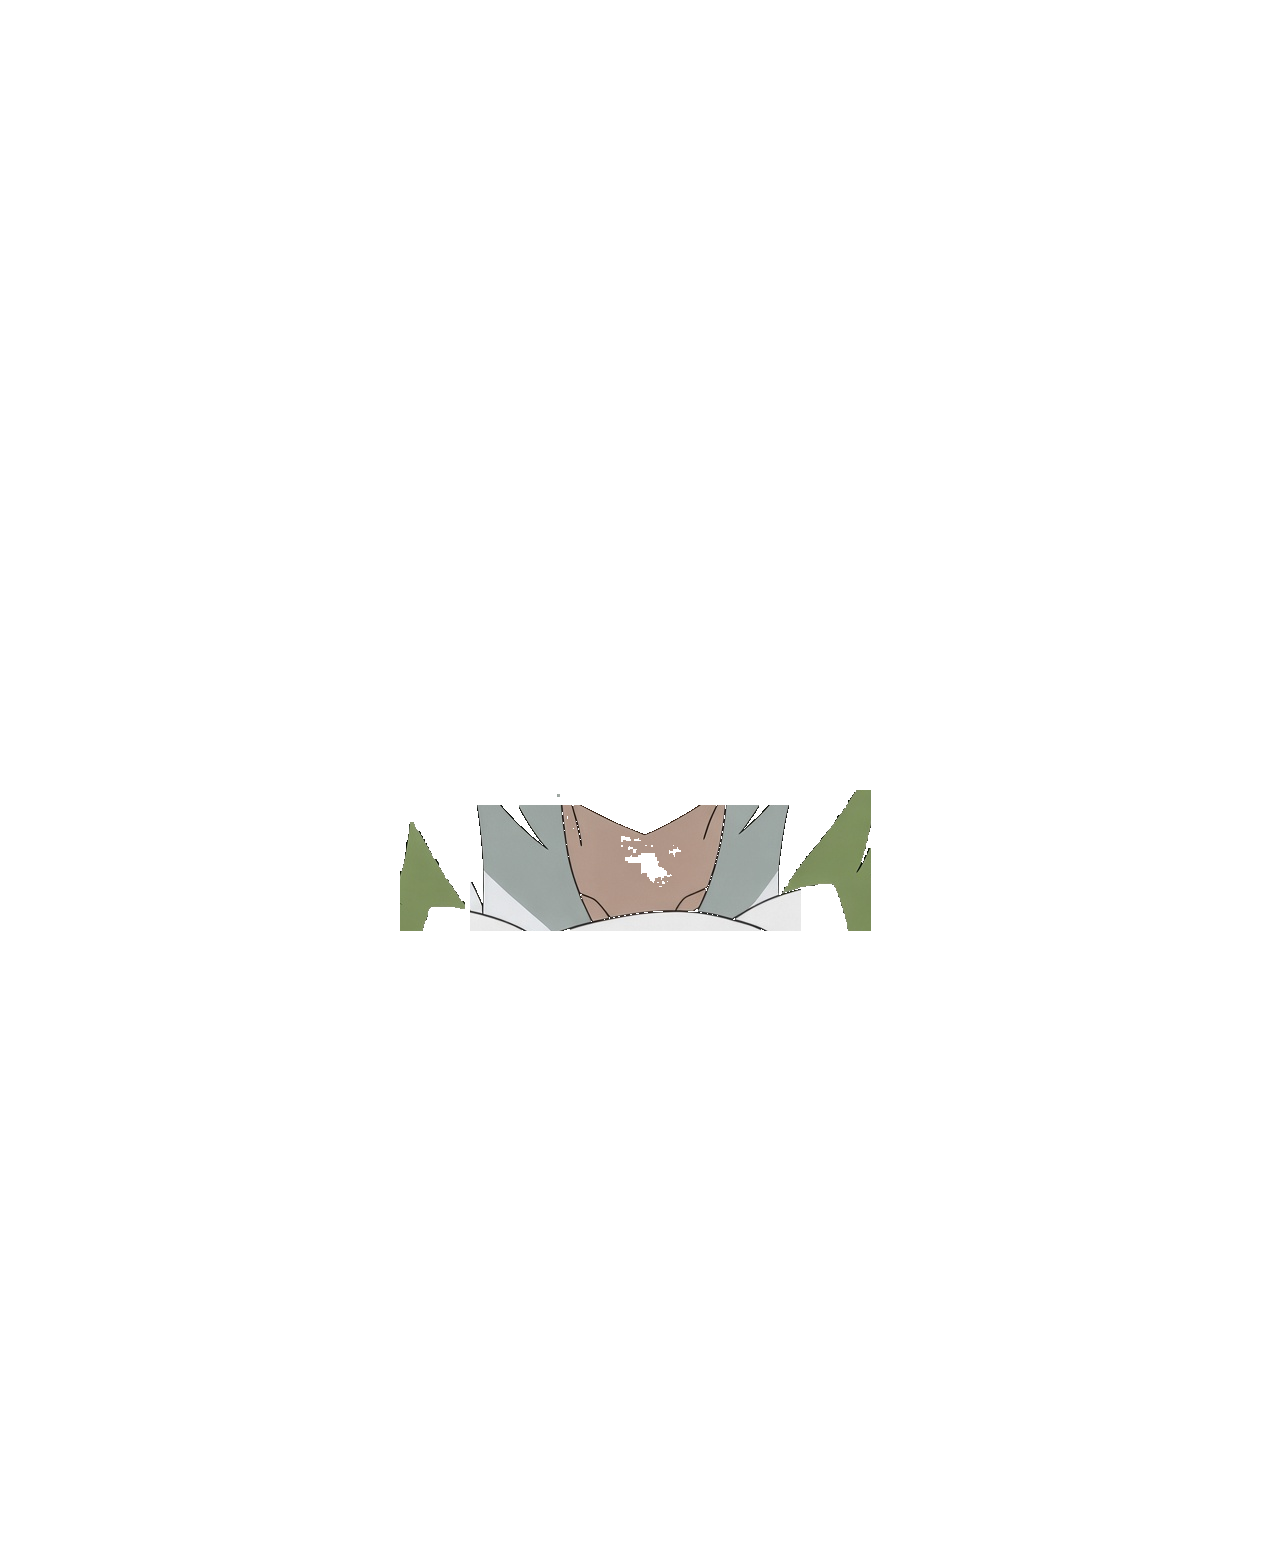
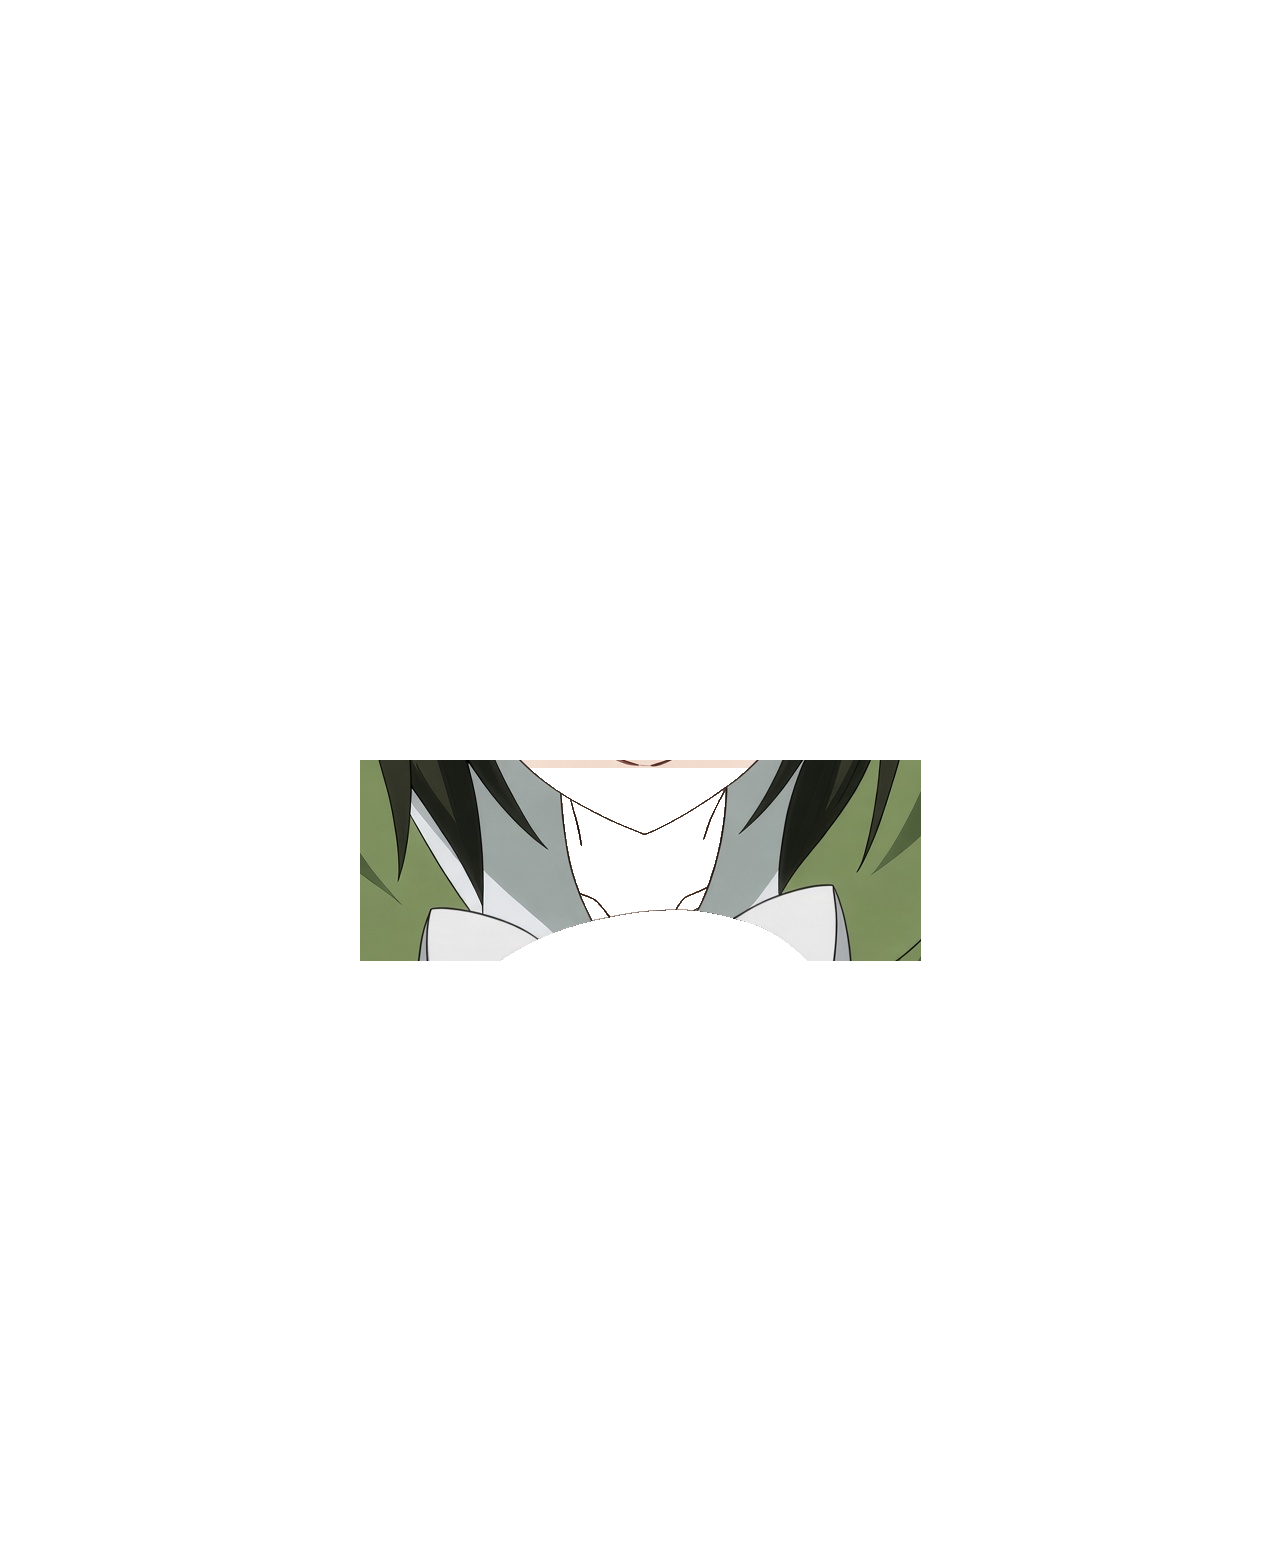
Extend Maho's neck and collar, and turn bangs under the side hair.

Changed region(s): [[0.2777, 0.4688, 0.7405, 0.625], [0.4011, 0.5938, 0.432, 0.625]]

diff --git a/frontend/tests/maho.test.ts b/frontend/tests/maho.test.ts
@@ -10,13 +10,15 @@ const layers = JSON.parse(
 ) as LayerSpec;
 assert.deepEqual(
   layers.layers.map((layer) => layer.id),
-  ["hair", "body", "neck", "collar", "face", "bangs"],
+  ["hair", "body", "neck", "collar", "cat", "face", "bangs", "side-bangs"],
 );
 assert.equal(layers.layers.find((layer) => layer.id === "face")?.rotate, true);
+assert.equal(layers.layers.find((layer) => layer.id === "bangs")?.rotate, true);
 assert.ok(layers.layers.find((layer) => layer.id === "hair")?.rotate !== true);
 assert.ok(layers.layers.find((layer) => layer.id === "neck")?.rotate !== true);
 assert.ok(layers.layers.find((layer) => layer.id === "collar")?.rotate !== true);
-assert.ok(layers.layers.find((layer) => layer.id === "bangs")?.rotate !== true);
+assert.ok(layers.layers.find((layer) => layer.id === "side-bangs")?.rotate !== true);
+assert.equal(layers.layers.find((layer) => layer.id === "cat")?.bob, true);
 
 function pngSize(bytes: Uint8Array): { width: number; height: number } {
   const view = new DataView(bytes.buffer, bytes.byteOffset, bytes.byteLength);
@@ -86,9 +88,11 @@ for (const name of [
   "layers/face-angry.png",
   "layers/face-eyes-closed.png",
   "layers/bangs.png",
+  "layers/side-bangs.png",
   "layers/hair.png",
   "layers/neck.png",
   "layers/collar.png",
+  "layers/cat.png",
   "layers/body.png",
 ] as const) {
   const bytes = await readFile(new URL(`../public/maho/${name}`, import.meta.url));
@@ -127,6 +131,9 @@ assert.match(playerSrc, /const zoom = 0\.9/);
 assert.match(playerSrc, /LINEAR_MIPMAP_LINEAR/);
 assert.match(playerSrc, /generateMipmap/);
 assert.doesNotMatch(playerSrc, /discard/);
+const layerPlayerSrc = await readFile(new URL("../src/maho/layerPlayer.ts", import.meta.url), "utf8");
+assert.match(layerPlayerSrc, /TEXTURE_MIN_FILTER,\s*gl\.LINEAR\)/);
+assert.doesNotMatch(layerPlayerSrc, /generateMipmap/);
 const puppetSrc = await readFile(new URL("../src/components/MahoPuppet.tsx", import.meta.url), "utf8");
 assert.match(puppetSrc, /webgl2/);
 assert.match(puppetSrc, /MahoLayerPlayer/);

diff --git a/frontend/src/maho/layerPlayer.ts b/frontend/src/maho/layerPlayer.ts
@@ -68,10 +68,9 @@ function loadTexture(gl: WebGL2RenderingContext, url: string): Promise<WebGLText
       gl.pixelStorei(gl.UNPACK_PREMULTIPLY_ALPHA_WEBGL, 1);
       gl.texParameteri(gl.TEXTURE_2D, gl.TEXTURE_WRAP_S, gl.CLAMP_TO_EDGE);
       gl.texParameteri(gl.TEXTURE_2D, gl.TEXTURE_WRAP_T, gl.CLAMP_TO_EDGE);
-      gl.texParameteri(gl.TEXTURE_2D, gl.TEXTURE_MIN_FILTER, gl.LINEAR_MIPMAP_LINEAR);
+      gl.texParameteri(gl.TEXTURE_2D, gl.TEXTURE_MIN_FILTER, gl.LINEAR);
       gl.texParameteri(gl.TEXTURE_2D, gl.TEXTURE_MAG_FILTER, gl.LINEAR);
       gl.texImage2D(gl.TEXTURE_2D, 0, gl.RGBA, gl.RGBA, gl.UNSIGNED_BYTE, image);
-      gl.generateMipmap(gl.TEXTURE_2D);
       resolve(texture);
     };
     image.onerror = () => reject(new Error(`Failed to load ${url}`));

diff --git a/scripts/extract_maho_layers.py b/scripts/extract_maho_layers.py
@@ -1,0 +1,197 @@
+#!/usr/bin/env python3
+"""Rebuild Maho neck, collar, bangs, and side-bangs from maho.png."""
+
+from __future__ import annotations
+
+from collections import deque
+from pathlib import Path
+
+import numpy as np
+from PIL import Image, ImageFilter
+
+ROOT = Path(__file__).resolve().parents[1]
+MAHO = ROOT / "frontend" / "public" / "maho"
+SRC_PATH = MAHO / "maho.png"
+LAYER_DIR = MAHO / "layers"
+
+W = 1264
+H = 1568
+
+
+def bbox(mask: np.ndarray) -> tuple[int, int, int, int, int] | None:
+    ys, xs = np.where(mask)
+    if len(xs) == 0:
+        return None
+    return int(xs.min()), int(ys.min()), int(xs.max()), int(ys.max()), int(len(xs))
+
+
+def dilate(mask: np.ndarray, radius: int) -> np.ndarray:
+    if radius <= 0:
+        return mask
+    im = Image.fromarray(mask.astype(np.uint8) * 255)
+    return np.array(im.filter(ImageFilter.MaxFilter(radius * 2 + 1))) > 127
+
+
+def close_mask(mask: np.ndarray, radius: int) -> np.ndarray:
+    im = Image.fromarray(mask.astype(np.uint8) * 255)
+    im = im.filter(ImageFilter.MaxFilter(radius * 2 + 1))
+    im = im.filter(ImageFilter.MinFilter(radius * 2 + 1))
+    return np.array(im) > 127
+
+
+def flood(h: int, w: int, seed: tuple[int, int], pred) -> np.ndarray:
+    seen = np.zeros((h, w), dtype=bool)
+    sx, sy = seed
+    if not (0 <= sx < w and 0 <= sy < h) or not pred(sy, sx):
+        return seen
+    q: deque[tuple[int, int]] = deque([(sx, sy)])
+    seen[sy, sx] = True
+    while q:
+        x, y = q.popleft()
+        for nx, ny in ((x + 1, y), (x - 1, y), (x, y + 1), (x, y - 1)):
+            if 0 <= nx < w and 0 <= ny < h and not seen[ny, nx] and pred(ny, nx):
+                seen[ny, nx] = True
+                q.append((nx, ny))
+    return seen
+
+
+def save_rgba(path: Path, arr: np.ndarray) -> None:
+    Image.fromarray(arr).save(path, optimize=True)
+
+
+def copy_src(src: np.ndarray, mask: np.ndarray) -> np.ndarray:
+    out = np.zeros_like(src)
+    out[mask] = src[mask]
+    return out
+
+
+def punch_dark(arr: np.ndarray, mask: np.ndarray) -> np.ndarray:
+    out = arr.copy()
+    lum = out[:, :, 0].astype(np.int16) + out[:, :, 1].astype(np.int16) + out[:, :, 2].astype(np.int16)
+    drop = mask & (out[:, :, 3] > 8) & (lum < 280)
+    out[drop] = (0, 0, 0, 0)
+    return out
+
+
+def main() -> None:
+    src = np.array(Image.open(SRC_PATH).convert("RGBA"))
+    assert src.shape[0] == H and src.shape[1] == W
+    body = np.array(Image.open(LAYER_DIR / "body.png").convert("RGBA"))
+    face = np.array(Image.open(LAYER_DIR / "face.png").convert("RGBA"))
+    face_angry = np.array(Image.open(LAYER_DIR / "face-angry.png").convert("RGBA"))
+    face_closed = np.array(Image.open(LAYER_DIR / "face-eyes-closed.png").convert("RGBA"))
+
+    r = src[:, :, 0].astype(np.int16)
+    g = src[:, :, 1].astype(np.int16)
+    b = src[:, :, 2].astype(np.int16)
+    a = src[:, :, 3]
+    opaque = a > 8
+    lum = r + g + b
+    dark = opaque & (lum < 280)
+    skin = (
+        opaque
+        & (r > 130)
+        & (g > 100)
+        & (b > 90)
+        & (r > g - 5)
+        & (r - b > 15)
+        & (lum > 350)
+    )
+    hoodie = opaque & (g > r + 12) & (g > 85) & (g > b)
+    gray = opaque & (np.abs(r - g) < 18) & (np.abs(g - b) < 18) & (r > 140) & (r < 235)
+    white = opaque & (r > 210) & (g > 210) & (b > 210)
+    pink = opaque & (r > 180) & (g > 90) & (b > 90) & (r > g + 15)
+
+    yy, xx = np.ogrid[:H, :W]
+
+    def cat_pred(y: int, x: int) -> bool:
+        if y < 905 or y > 1480 or x < 400 or x > 870:
+            return False
+        if hoodie[y, x] or skin[y, x]:
+            return False
+        return bool(white[y, x] or pink[y, x] or lum[y, x] > 520)
+
+    cat_head = flood(H, W, (632, 1040), cat_pred)
+    left_ear = ((xx - 500) / 58) ** 2 + ((yy - 922) / 48) ** 2 <= 1
+    right_ear = ((xx - 790) / 58) ** 2 + ((yy - 922) / 48) ** 2 <= 1
+    cat = cat_head | ((left_ear | right_ear) & (white | (lum > 500)) & (yy >= 860) & ~hoodie & ~skin)
+    cat = dilate(cat, 3) & ~hoodie
+    cat_head = dilate(cat_head, 2)
+    print("cat", bbox(cat), "cat_head", bbox(cat_head))
+
+    neck_core = skin & (yy >= 768) & (yy <= 922) & (xx >= 500) & (xx <= 770) & ~cat
+    neck_mask = dilate(neck_core, 6) & ~hoodie & ~cat
+    neck_out = np.zeros_like(src)
+    # Original skin first, then dilate fill from the nearest core pixel on that row.
+    neck_out[neck_core] = src[neck_core]
+    for y in range(H):
+        xs = np.where(neck_core[y])[0]
+        extra = np.where(neck_mask[y] & ~neck_core[y])[0]
+        if len(xs) == 0 or len(extra) == 0:
+            continue
+        left, right = int(xs.min()), int(xs.max())
+        for x in extra:
+            neck_out[y, x] = src[y, left] if x < left else src[y, right]
+    print("neck", bbox(neck_mask))
+
+    in_collar = (yy >= 760) & (yy <= 960) & (xx >= 360) & (xx <= 920)
+    lining = in_collar & (gray | (white & ~cat_head) | hoodie) & ~cat_head
+    body_hole = in_collar & (body[:, :, 3] < 8) & opaque & ~cat_head
+    near_lining = dilate(lining | body_hole, 3)
+    outline = in_collar & dark & near_lining & ~cat_head
+    collar_mask = close_mask(lining | body_hole | outline, 2)
+    collar_mask = dilate(collar_mask, 2) & in_collar & ~cat_head & ~neck_core
+    print("collar", bbox(collar_mask))
+
+    # Hanging fringe only. Roots stay in the static crown / side-bangs so a
+    # head turn does not open the hair hole above the forehead.
+    center_box = (xx >= 515) & (xx <= 755) & (yy >= 468) & (yy <= 528)
+    bangs_mask = dark & center_box & ~skin
+
+    dist = ((xx - 650) / 205) ** 2 + ((yy - 640) / 220) ** 2
+    annulus = dark & (dist > 0.62) & (dist < 1.78) & (yy >= 380) & (yy <= 875)
+    crown = dark & (yy >= 350) & (yy <= 475) & (xx >= 420) & (xx <= 860)
+    frame = dark & (
+        ((yy >= 400) & (yy <= 545) & (xx >= 420) & (xx <= 535))
+        | ((yy >= 400) & (yy <= 545) & (xx >= 735) & (xx <= 860))
+    )
+    side_mask = (annulus | crown | frame) & ~skin & ~cat
+    bangs_mask &= ~side_mask
+    print("bangs", bbox(bangs_mask))
+    print("side-bangs", bbox(side_mask))
+
+    save_rgba(LAYER_DIR / "neck.png", neck_out)
+    save_rgba(LAYER_DIR / "collar.png", copy_src(src, collar_mask))
+    save_rgba(LAYER_DIR / "bangs.png", copy_src(src, bangs_mask))
+    save_rgba(LAYER_DIR / "side-bangs.png", copy_src(src, side_mask))
+    save_rgba(LAYER_DIR / "cat.png", copy_src(src, cat))
+    save_rgba(LAYER_DIR / "face.png", punch_dark(face, side_mask))
+    save_rgba(LAYER_DIR / "face-angry.png", punch_dark(face_angry, side_mask))
+    save_rgba(LAYER_DIR / "face-eyes-closed.png", punch_dark(face_closed, side_mask))
+
+    for name in (
+        "neck.png",
+        "collar.png",
+        "bangs.png",
+        "side-bangs.png",
+        "cat.png",
+        "face.png",
+        "face-angry.png",
+        "face-eyes-closed.png",
+    ):
+        im = np.array(Image.open(LAYER_DIR / name).convert("RGBA"))
+        zero_rgb = int(((im[:, :, 3] == 0) & (im[:, :, :3].sum(axis=2) > 0)).sum())
+        print(name, bbox(im[:, :, 3] > 8), "zeroRGB", zero_rgb)
+        assert im.shape[0] == H and im.shape[1] == W
+        assert zero_rgb == 0
+
+    neck_n = int((np.array(Image.open(LAYER_DIR / "neck.png"))[:, :, 3] > 8).sum())
+    collar_n = int((np.array(Image.open(LAYER_DIR / "collar.png"))[:, :, 3] > 8).sum())
+    assert neck_n >= 15000, neck_n
+    assert collar_n >= 30000, collar_n
+    neck_bb = bbox(np.array(Image.open(LAYER_DIR / "neck.png"))[:, :, 3] > 8)
+    assert neck_bb is not None and neck_bb[3] >= 890, neck_bb
+
+
+if __name__ == "__main__":
+    main()

diff --git a/frontend/tests/layer_extent.py b/frontend/tests/layer_extent.py
@@ -1,0 +1,54 @@
+#!/usr/bin/env python3
+"""Opaque-count and bbox gates for Maho layer PNGs."""
+
+from pathlib import Path
+
+from PIL import Image
+
+ROOT = Path(__file__).resolve().parents[1] / "public" / "maho" / "layers"
+
+
+def bbox(im: Image.Image) -> tuple[int, int, int, int, int]:
+    alpha = im.split()[-1]
+    box = alpha.getbbox()
+    if box is None:
+        raise SystemExit("layer PNG is empty")
+    count = sum(1 for p in alpha.getdata() if p > 8)
+    return box[0], box[1], box[2], box[3], count
+
+
+def main() -> None:
+    neck = Image.open(ROOT / "neck.png").convert("RGBA")
+    collar = Image.open(ROOT / "collar.png").convert("RGBA")
+    bangs = Image.open(ROOT / "bangs.png").convert("RGBA")
+    side = Image.open(ROOT / "side-bangs.png").convert("RGBA")
+    cat = Image.open(ROOT / "cat.png").convert("RGBA")
+    for name, im in (
+        ("neck", neck),
+        ("collar", collar),
+        ("bangs", bangs),
+        ("side-bangs", side),
+        ("cat", cat),
+    ):
+        assert im.size == (1264, 1568), (name, im.size)
+
+    nx0, ny0, nx1, ny1, n_neck = bbox(neck)
+    cx0, cy0, cx1, cy1, n_collar = bbox(collar)
+    _, by0, _, by1, n_bangs = bbox(bangs)
+    _, _, _, sy1, n_side = bbox(side)
+    _, _, _, _, n_cat = bbox(cat)
+
+    assert n_neck >= 15000, n_neck
+    assert ny1 >= 890, ny1
+    assert n_collar >= 50000, n_collar
+    assert cy1 >= 940, cy1
+    assert n_bangs >= 4000, n_bangs
+    assert by1 <= 540, by1
+    assert n_side >= 80000, n_side
+    assert sy1 >= 800, sy1
+    assert n_cat >= 80000, n_cat
+    print("layer_extent ok", n_neck, n_collar, n_bangs, n_side, n_cat)
+
+
+if __name__ == "__main__":
+    main()

diff --git a/README.md b/README.md
@@ -6,7 +6,7 @@ MIT for the software. Character art keeps its own terms: see [NOTICE](NOTICE).
 
 ## Use it
 
-- Head: her face and chin turn. Hair stays its own layer.
+- Head: her face, chin, and bangs turn. Side hair stays in front of the bangs. Neck and collar stay put.
 - Cat: she gets mad, and a vein mark pops on her hair. No sound yet.
 - Drag: grab her anywhere and move the window. A short click on the head or cat still fires.
 - 45 seconds with no click: eyes close, `z`s over her head
@@ -65,4 +65,5 @@ Same start later: double-click `start_local.bat` or `start_windows.bat`.
 
 ## Changelog
 
+- Neck and collar fill the hoodie opening (2026-09-07). Bangs turn with the head, under the side hair.
 - Maho overlay (2026-09-07): hoodie still as a full-res mesh. Cat click is mad + vein mark, no audio.
